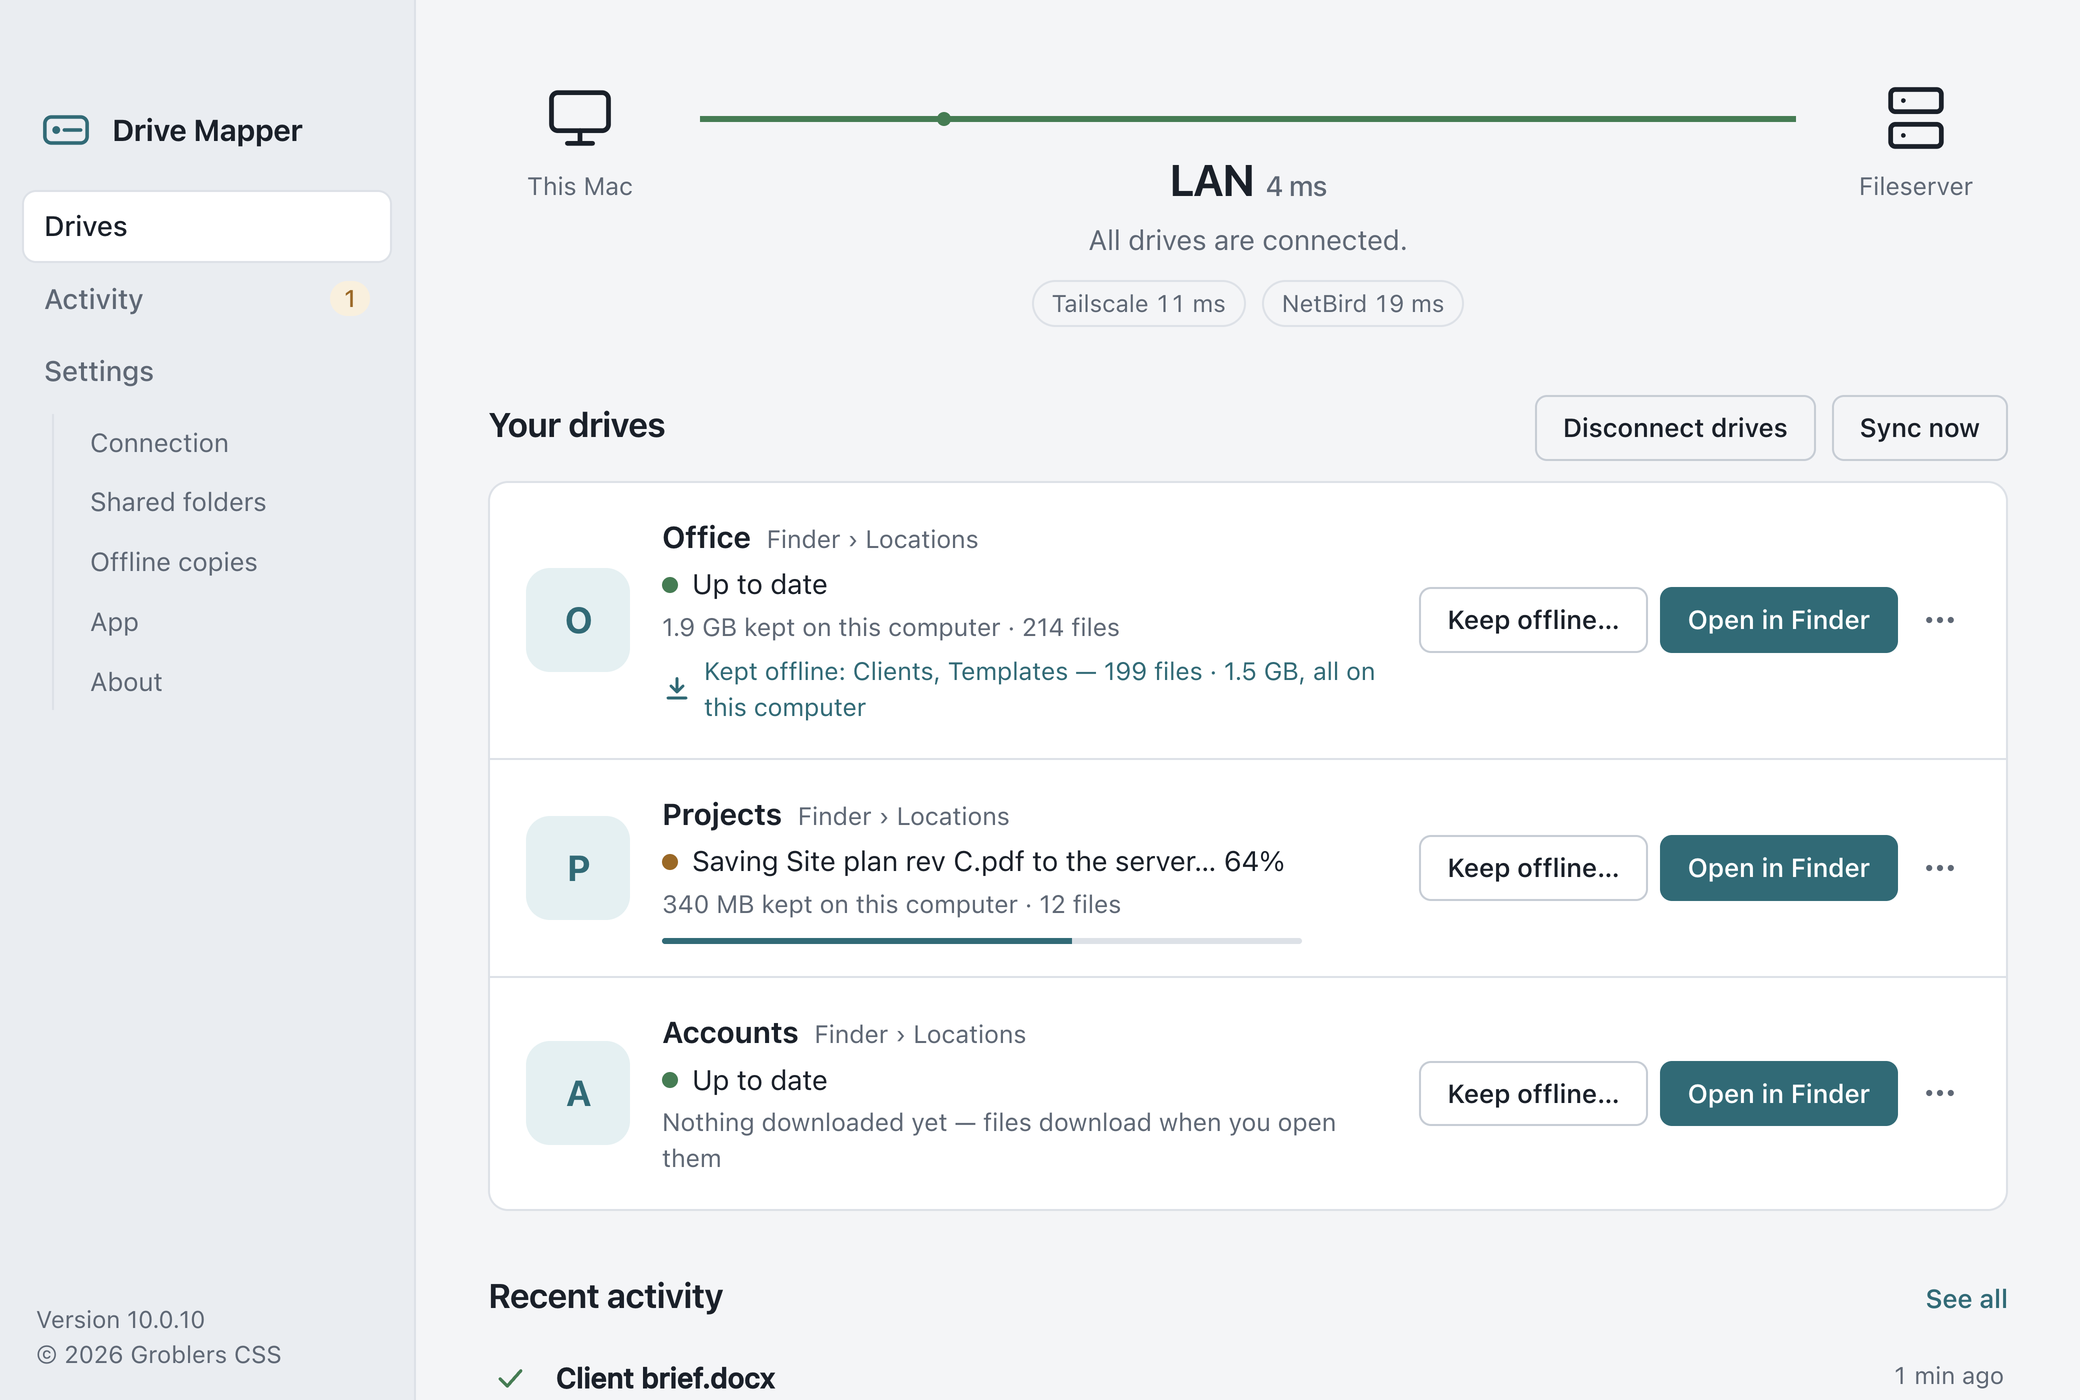
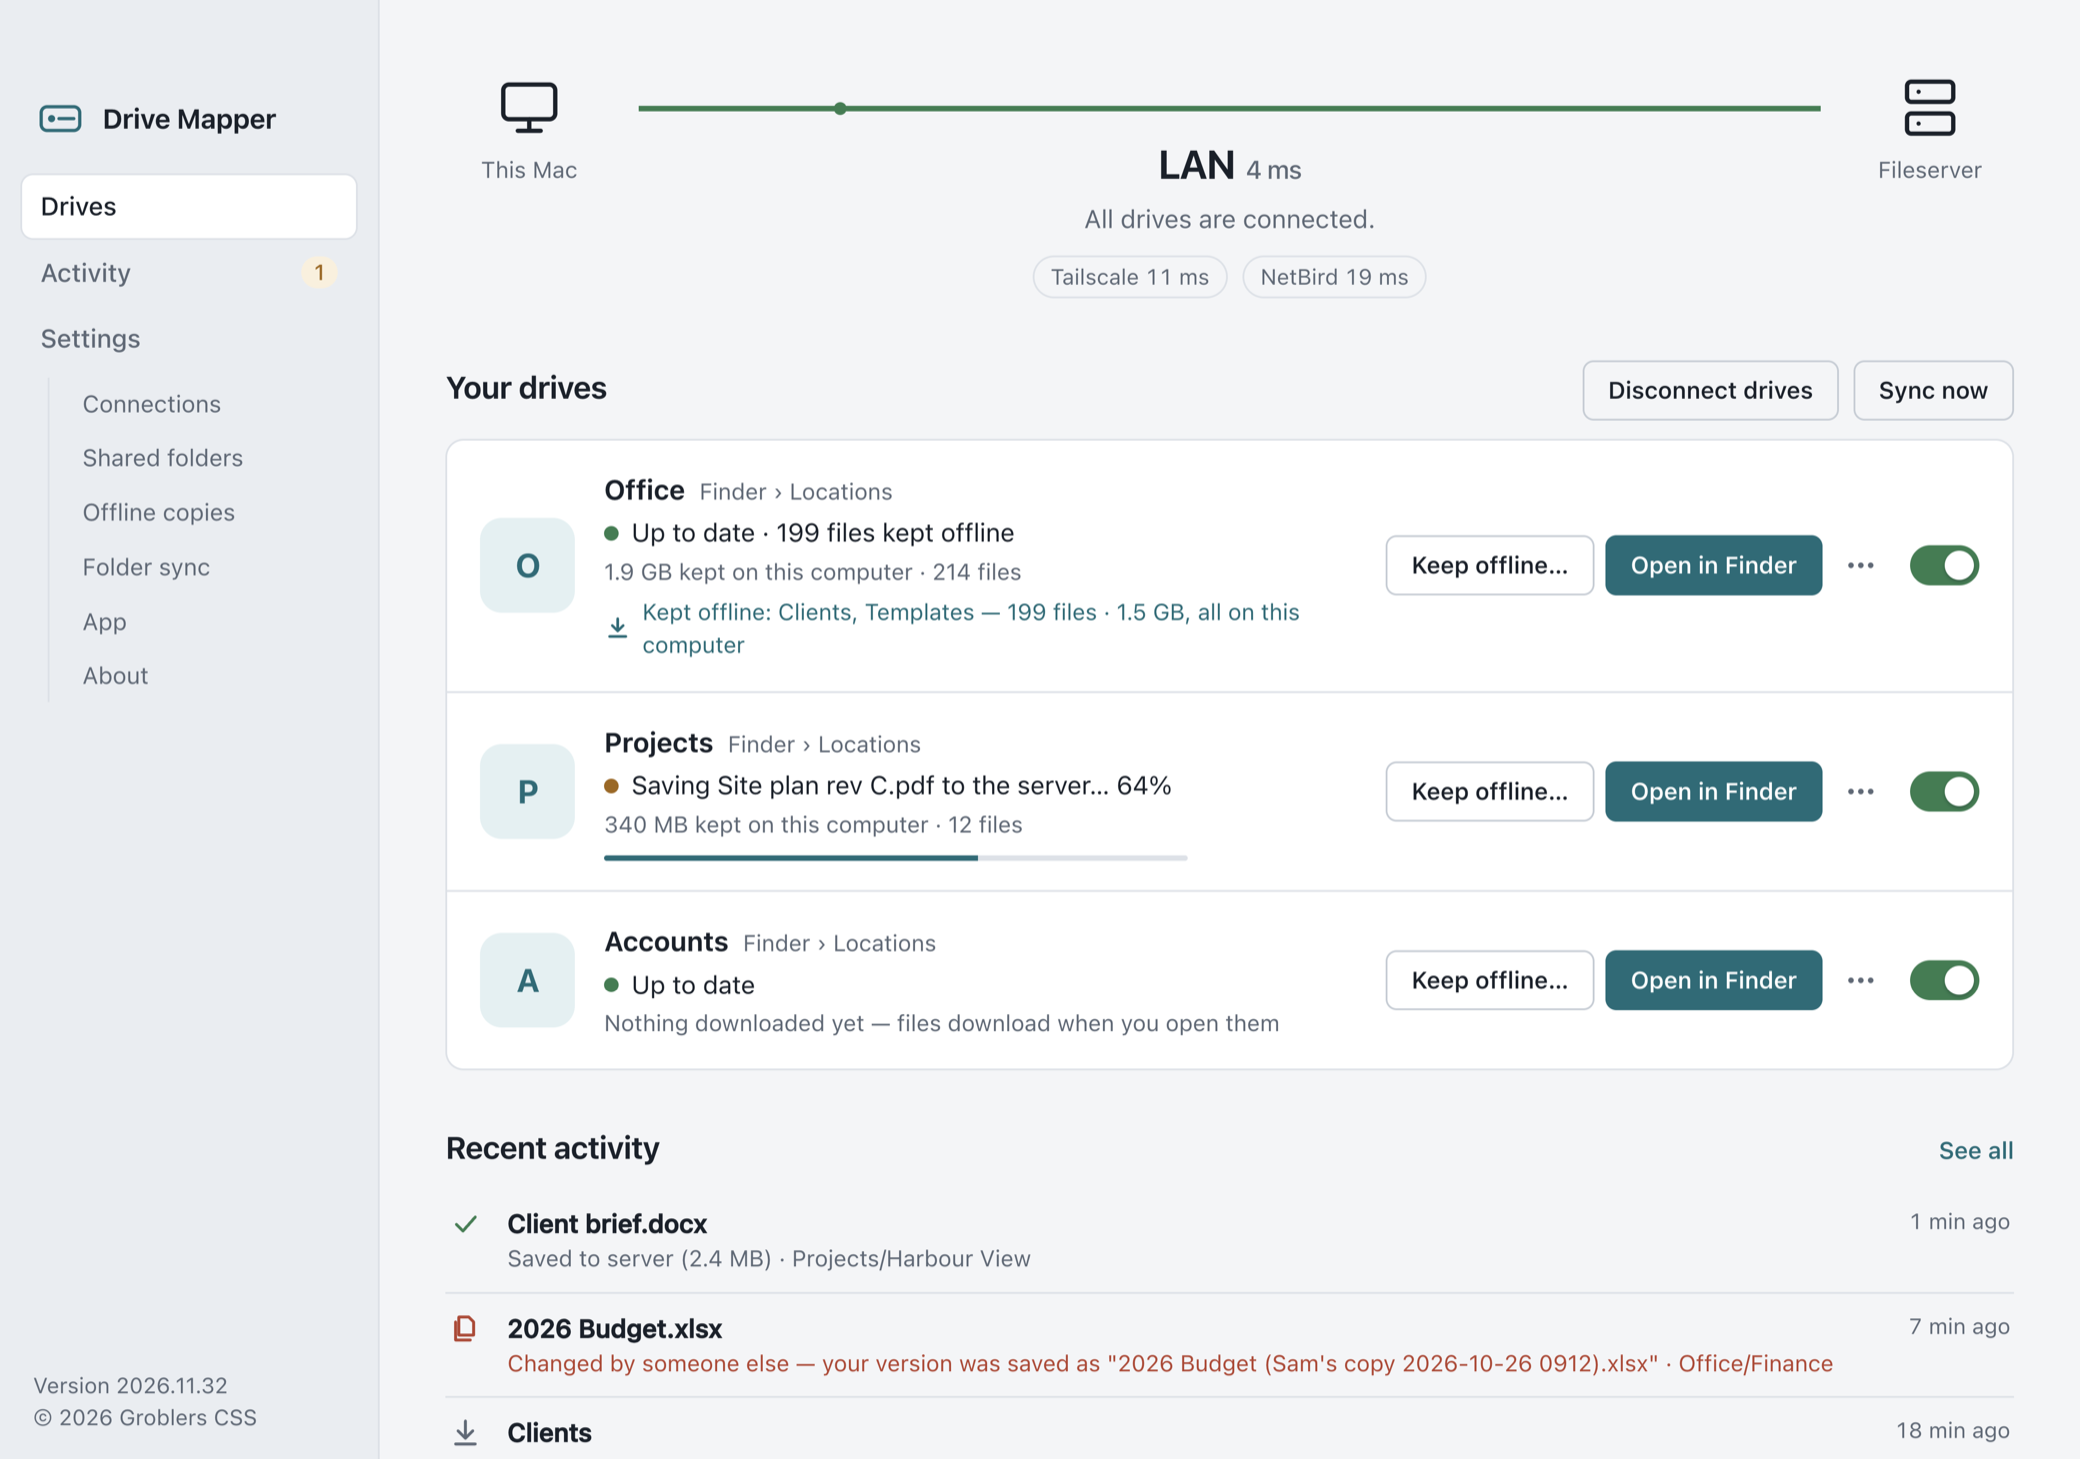
README: Folder sync, Windows cloud files mode, Finder sidebar; all screenshots refreshed for 2026.11.32 plus Folder sync screenshots
Claude-Session: https://claude.ai/code/session_01NfoVcRpezfdQoe5Z7gCsob

diff --git a/README.md b/README.md
@@ -24,10 +24,12 @@ Installed copies update themselves. Older versions and change notes are under [R
 
 ## What it does
 
-- **Shares appear as drives** — a drive letter in Explorer, a volume under Locations in Finder. Browse, open, save, copy, rename and delete as usual.
+- **Shares appear as drives** — a drive letter in Explorer, an entry in the Finder sidebar on a Mac (also added to Path Finder's favourites). Browse, open, save, copy, rename and delete as usual.
+- **Cloud files on Windows** *(beta)* — optionally the drives work like OneDrive: cloud and tick icons and *Always keep on this device* in Explorer, while the drive letters stay the same, so Word, Excel and Access (mail merge, linked workbooks) see ordinary files.
 - **Download on open** — browsing shows every file without downloading anything; a file is fetched the first time you open it.
 - **Offline copies** — opened files stay on the computer (7 days after last use by default) so they open instantly and work without a connection.
 - **Keep offline** *(licence)* — choose folders to keep on the computer in full, kept up to date automatically.
+- **Folder sync** — keep a folder on this computer and a folder on a drive the same, both ways: for a program that needs its files in a local folder while other programs or people use them on the server. Sync the whole folder or tick only some of the folders inside it. New files, changes and deletes go both ways; if a file changed on both sides, both versions are kept. Shows live progress with the time left, and can be paused or stopped at any time.
 - **Every change goes back** — saves, new files and folders, renames and deletes reach the server within seconds; changes made offline are sent when the server is back.
 - **Never overwrites someone else's work** — if a file changed on the server while you were editing it, your version is saved next to it as *"Name (Riaan's copy …)"*.
 - **Deletes are recoverable** — deleted files go to a recycle folder on the share (optional).
@@ -45,6 +47,10 @@ Installed copies update themselves. Older versions and change notes are under [R
 <tr>
 <td><img src="docs/screenshots/mac-settings-connection.png" alt="Connection settings: connection type, LAN, Tailscale and NetBird addresses, and more connections folded away"><br><sub><b>Connection</b> — SMB, SFTP, FTP or NFS over office LAN, Tailscale or NetBird; the fastest path wins. Each connection folds away to one status line.</sub></td>
 <td><img src="docs/screenshots/windows-settings-shares.png" alt="Shared folders: add drives from the server's list"><br><sub><b>Shared folders</b> — pick shares from the server and choose drive letters.</sub></td>
+</tr>
+<tr>
+<td><img src="docs/screenshots/windows-settings-foldersync-dark.png" alt="Folder sync: a local folder kept the same as a folder on a drive, with progress and recent changes"><br><sub><b>Folder sync</b> — a folder on this computer and one on the drive kept the same both ways, with progress, time left and recent changes.</sub></td>
+<td><img src="docs/screenshots/windows-settings-foldersync-picker-dark.png" alt="Choosing where on the drive the folders go"><br><sub><b>Choose where it goes</b> — pick the place on the drive, or make a new folder there, and see the exact destination before you start.</sub></td>
 </tr>
 <tr>
 <td colspan="2"><img src="docs/screenshots/mac-activity.png" alt="Activity: saves, downloads, renames, deletes and a conflict copy"><br><sub><b>Activity</b> — every download, save, rename and delete, including when a colleague changed a file you were editing and your version was saved as a copy.</sub></td>
